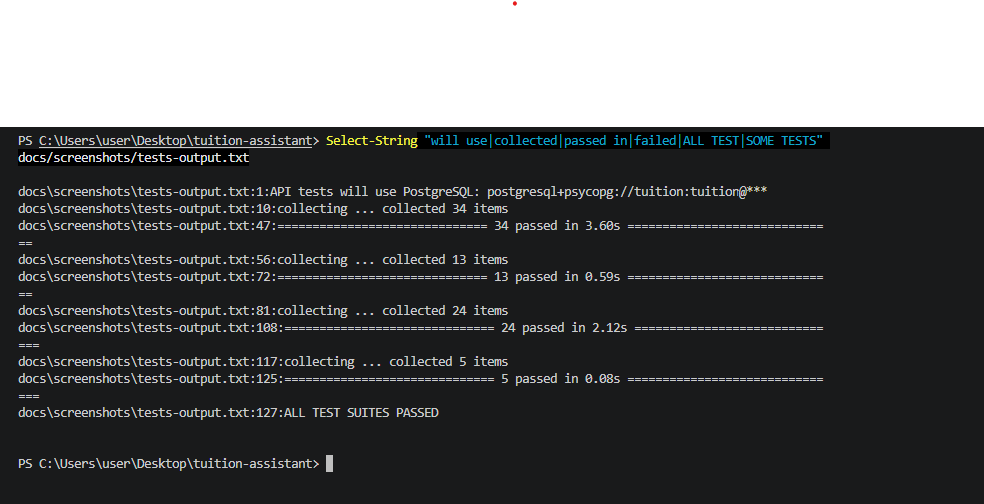
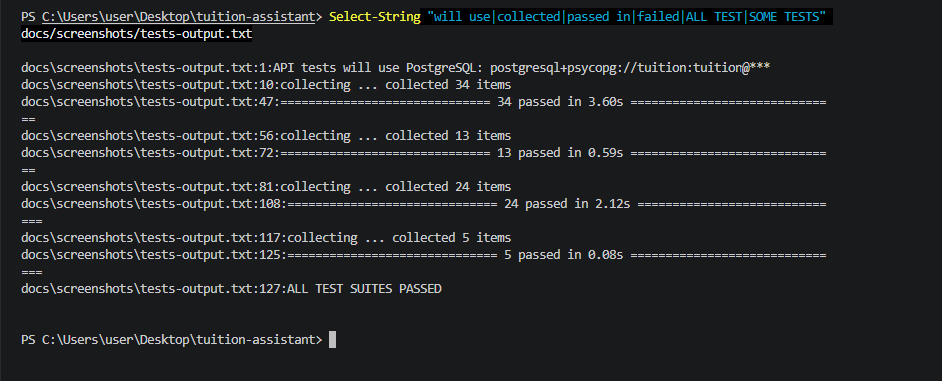
Azure deployment: gateway-only enforcement, cloud evidence and URLs

diff --git a/scripts/smoke_test.py b/scripts/smoke_test.py
@@ -1,6 +1,6 @@
 """End-to-end check THROUGH THE API GATEWAY (cross-platform, needs only `httpx`).
 
-    python scripts/smoke_test.py http://localhost:8000
+    python scripts/smoke_test.py http://localhost:8000 [DIRECT_API_URL]
 or, with nothing installed locally (uses the agent image):
     docker compose run --rm -v ./scripts:/scripts -v ./samples:/samples agent python /scripts/smoke_test.py http://gateway:8000
 
@@ -16,6 +16,7 @@ from pathlib import Path
 import httpx
 
 GW = (sys.argv[1] if len(sys.argv) > 1 else "http://localhost:8000").rstrip("/")
+DIRECT_API = sys.argv[2].rstrip("/") if len(sys.argv) > 2 else None  # optional: prove the gateway can't be bypassed
 STUDENT = "20230002"
 c = httpx.Client(base_url=GW, timeout=20)
 CSV = next((p for p in [Path(__file__).resolve().parents[1] / "samples" / "tuition_batch.csv",
@@ -38,6 +39,10 @@ def login(user, pw):
 tok = login(STUDENT, "Student123!")
 H = {"Authorization": f"Bearer {tok}"}
 print(f"Gateway: {GW}\nLogged in as {STUDENT} (POST /api/v1/auth/login, public route)")
+
+if DIRECT_API:
+    show("Direct call to the Tuition API, bypassing the gateway (expect 403 GATEWAY_REQUIRED)",
+         httpx.get(f"{DIRECT_API}/api/v1/mobile/tuition/{STUDENT}", timeout=20))
 
 show("Protected route WITHOUT token (expect 401 from gateway)", c.get(f"/api/v1/banking/tuition/{STUDENT}"))
 show("Protected route WITH token (expect 200)", c.get(f"/api/v1/banking/tuition/{STUDENT}", headers=H))

diff --git a/tuition_api/tests/test_api.py b/tuition_api/tests/test_api.py
@@ -219,3 +219,22 @@ class TestUnpaid:
 
     def test_requires_admin(self, client, student1):
         assert client.get("/api/v1/admin/tuition/unpaid?term=2026-FALL", headers=student1).status_code == 403
+
+
+# ============================================================ Gateway enforcement (X-Gateway-Secret)
+class TestGatewayOnly:
+    def test_request_without_gateway_secret_is_rejected(self, client, monkeypatch):
+        monkeypatch.setattr(settings, "gateway_secret", "s3cret-from-kong")
+        r = client.get("/api/v1/mobile/tuition/20230001")
+        assert r.status_code == 403 and r.json()["error"]["code"] == "GATEWAY_REQUIRED"
+        r = client.get("/api/v1/mobile/tuition/20230001", headers={"X-Gateway-Secret": "wrong"})
+        assert r.status_code == 403
+
+    def test_request_with_gateway_secret_passes(self, client, monkeypatch):
+        monkeypatch.setattr(settings, "gateway_secret", "s3cret-from-kong")
+        r = client.get("/api/v1/mobile/tuition/20230001", headers={"X-Gateway-Secret": "s3cret-from-kong"})
+        assert r.status_code == 200
+
+    def test_health_is_open_for_platform_probes(self, client, monkeypatch):
+        monkeypatch.setattr(settings, "gateway_secret", "s3cret-from-kong")
+        assert client.get("/health").status_code == 200

diff --git a/tuition_api/app/main.py b/tuition_api/app/main.py
@@ -1,7 +1,10 @@
 import time
 from contextlib import asynccontextmanager
 
-from fastapi import FastAPI
+import hmac
+
+from fastapi import FastAPI, Request
+from fastapi.responses import JSONResponse
 from sqlalchemy.exc import OperationalError
 
 from .config import settings
@@ -47,6 +50,19 @@ def create_app() -> FastAPI:
     app = FastAPI(title="Tuition API", version="1.0.0", description=DESCRIPTION, lifespan=lifespan,
                   docs_url="/docs", openapi_url="/openapi.json")
     install_error_handlers(app)
+
+    @app.middleware("http")
+    async def require_gateway(request: Request, call_next):
+        """Enforce "all REST traffic goes through the API Gateway" at the application level."""
+        secret = settings.gateway_secret
+        if secret and request.url.path != "/health":
+            sent = request.headers.get("x-gateway-secret", "")
+            if not hmac.compare_digest(sent.encode(), secret.encode()):
+                return JSONResponse(status_code=403, content={"error": {
+                    "code": "GATEWAY_REQUIRED",
+                    "message": "Direct access is not allowed; call the API through the API Gateway"}})
+        return await call_next(request)
+
     for r in routers:
         app.include_router(r)
 

diff --git a/gateway/tests/test_gateway_config.py b/gateway/tests/test_gateway_config.py
@@ -10,7 +10,7 @@ TEMPLATE = Path(__file__).resolve().parents[1] / "kong.yml.template"
 def render(**env):
     text = TEMPLATE.read_text()
     for k, v in {"API_UPSTREAM": "http://api:8000", "JWT_SECRET": "s3cret", "JWT_ISSUER": "tuition-auth",
-                 "MOBILE_DAILY_LIMIT": "3", **env}.items():
+                 "MOBILE_DAILY_LIMIT": "3", "GATEWAY_SHARED_SECRET": "gw-secret", **env}.items():
         text = text.replace("${" + k + "}", v)
     assert not re.findall(r"\$\{[A-Z_]+\}", text)
     return yaml.safe_load(text)
@@ -52,3 +52,9 @@ def test_mobile_rate_limit_is_keyed_by_student_number_not_ip():
 def test_jwt_consumer_matches_api_issuer():
     secret = render()["consumers"][0]["jwt_secrets"][0]
     assert secret == {"key": "tuition-auth", "secret": "s3cret", "algorithm": "HS256"}
+
+
+def test_gateway_adds_shared_secret_and_strips_client_value():
+    rt = {p["name"]: p["config"] for p in render()["plugins"]}["request-transformer"]
+    assert rt["remove"]["headers"] == ["X-Gateway-Secret"]
+    assert rt["add"]["headers"] == ["X-Gateway-Secret:gw-secret"]

diff --git a/tuition_api/app/config.py b/tuition_api/app/config.py
@@ -20,6 +20,10 @@ class Settings:
         self.timezone = os.getenv("APP_TIMEZONE", "Europe/Istanbul")
         self.init_db = _bool("INIT_DB", "true")
         self.seed_demo_data = _bool("SEED_DEMO_DATA", "true")
+        # Shared secret that ONLY the API gateway adds to proxied requests (header X-Gateway-Secret).
+        # When set, every request without it is rejected, so the API cannot be called around the gateway.
+        # Empty = check disabled (unit tests, local runs without the gateway).
+        self.gateway_secret = os.getenv("GATEWAY_SHARED_SECRET", "")
 
 
 settings = Settings()

diff --git a/README.md b/README.md
@@ -7,7 +7,7 @@ A conversational assistant for students asking about tuition deadlines, installm
 3. A **Tuition REST API** with a **PostgreSQL** database. All six operations are implemented, protected with JWT, and documented in Swagger.
 4. A **Kong API Gateway** that every REST request goes through. This includes the agent's own calls.
 
-> **Student:** _<your name / student number>_ · **Demo video:** _<link>_ · **Gateway URL:** _<https://api-gateway....azurecontainerapps.io>_ · **Chat UI:** _<https://tuition-agent....azurecontainerapps.io>_
+> **Student:** _<your name / student number>_ · **Demo video:** _<link>_ · **Gateway URL:** https://api-gateway.salmonmoss-766227b4.swedencentral.azurecontainerapps.io · **Chat UI:** https://tuition-agent.salmonmoss-766227b4.swedencentral.azurecontainerapps.io
 
 ### Requirements checklist (where to find each item)
 
@@ -19,12 +19,12 @@ A conversational assistant for students asking about tuition deadlines, installm
 | Real MCP SDK server, `search_tuition_policies(query)`, chunking + index | [§6](#6-mcp-server-and-indexing), `mcp_server/`, `docs/mcp-tool-schema.json` |
 | 3 distinct MCP retrieval queries | [§6](#6-mcp-server-and-indexing), `docs/screenshots/mcp-retrieval-tests.txt` |
 | REST APIs (6 operations), versioned, business rules | [§3](#3-rest-api), `tuition_api/` |
-| Swagger UI / OpenAPI | `<gateway>/docs`, [`docs/openapi.json`](docs/openapi.json), `docs/screenshots/swagger.png` |
+| Swagger UI / OpenAPI | [Azure gateway /docs](https://api-gateway.salmonmoss-766227b4.swedencentral.azurecontainerapps.io/docs), [`docs/openapi.json`](docs/openapi.json), `docs/screenshots/swagger.png`, `cloud-swagger.png` |
 | API Gateway: routes, protected route, error response, per-student rate limit | [§4](#4-api-gateway-kong), `gateway/kong.yml.template`, `docs/screenshots/gateway-smoke-test.txt` |
 | JWT auth, no access to other students' data | [§5](#5-authentication-and-authorization) |
 | Server database + ER model | PostgreSQL, [`docs/er-diagram.md`](docs/er-diagram.md), [`docs/er-diagram.png`](docs/er-diagram.png) |
 | Unit tests (success + failure per operation, no cloud/LLM) + evidence | [§8](#8-unit-tests), `docs/screenshots/tests.png` |
-| Cloud deployment (Azure) + URLs | [§9](#9-cloud-deployment-azure) |
+| Cloud deployment (Azure) + URLs | [§9](#9-cloud-deployment-azure), `docs/screenshots/cloud-*` |
 | LLM cost / low-cost testing | [§10](#10-llm-cost-and-low-cost-testing) |
 | Assumptions | [§11](#11-assumptions) |
 | Test data + steps to reproduce | [§2](#2-run-locally-docker), `samples/tuition_batch.csv` |
@@ -83,7 +83,7 @@ docker compose up --build
 | MCP server | http://localhost:8001/mcp |
 | Chat UI | http://localhost:8080 |
 
-The Tuition API container has **no published port**, so it can be reached **only through the gateway**.
+The Tuition API container has **no published port**, so it can be reached **only through the gateway**. In addition, the API rejects every request that does not carry the gateway's shared secret (see §4, "Gateway-only enforcement").
 
 ### Demo accounts and test data (seeded automatically)
 
@@ -157,7 +157,7 @@ Swagger UI: `<gateway>/docs`. The OpenAPI file is at [`docs/openapi.json`](docs/
 
 ## 4. API Gateway (Kong)
 
-- **Gateway URL:** `https://<api-gateway fqdn>` (Azure). Locally it is `http://localhost:8000`.
+- **Gateway URL (Azure):** https://api-gateway.salmonmoss-766227b4.swedencentral.azurecontainerapps.io (Swagger: https://api-gateway.salmonmoss-766227b4.swedencentral.azurecontainerapps.io/docs). Locally it is `http://localhost:8000`.
 - **Configuration:** [`gateway/kong.yml.template`](gateway/kong.yml.template). This is Kong 3.9 in DB-less mode, and the same file is used locally and in Azure.
 
 | Public route | Upstream | Gateway policy |
@@ -171,6 +171,12 @@ Swagger UI: `<gateway>/docs`. The OpenAPI file is at [`docs/openapi.json`](docs/
 **Per-student rate limit (not per IP).** A `pre-function` plugin copies `{studentNo}` from the path into an `X-Student-No` header, overwriting any value the client sent. The `rate-limiting` plugin then counts by that header.
 
 The API keeps a second, persistent counter in the `api_usage` table, keyed by student number and the Europe/Istanbul date. This way the rule holds even if the gateway restarts.
+
+**Gateway-only enforcement (the API cannot be called around the gateway).** Kong's `request-transformer` plugin removes any client-supplied `X-Gateway-Secret` header and adds the real shared secret to every request it proxies. The Tuition API rejects every request without the correct value (constant-time comparison) with:
+```
+403 {"error": {"code": "GATEWAY_REQUIRED", "message": "Direct access is not allowed; call the API through the API Gateway"}}
+```
+Only `/health` (platform health probe) is exempt. The secret is stored as an Azure Container Apps secret for both apps. This works the same locally and in the cloud and is covered by unit tests.
 
 **Example error response from the gateway** (protected route without a token):
 
@@ -307,7 +313,7 @@ Evidence of a successful run (API tests on PostgreSQL): [`docs/screenshots/tests
 
 | Component | Azure service |
 |---|---|
-| Tuition REST API | Azure Container Apps (**internal** ingress, not reachable from the internet) |
+| Tuition REST API | Azure Container Apps. Accepts only requests that carry the gateway secret; direct calls get **403 GATEWAY_REQUIRED** |
 | API Gateway | Kong on Azure Container Apps (external) |
 | MCP server | Azure Container Apps (external, `/mcp`) |
 | AI Agent and chat UI | Azure Container Apps (external) |
@@ -322,8 +328,23 @@ LOCATION=swedencentral bash deploy/azure/deploy.sh
 ```
 **Azure for Students note.** ACR Tasks (`az acr build`) are blocked on student/free-credit subscriptions (`TasksOperationsNotAllowed`). The script detects this, stops after creating the registry, database and environment, and prints the exact `docker login / tag / push` commands. Run them on your own computer (images built with Docker Desktop), then run the same deploy command again; it re-uses everything and creates the four container apps.
 
-Deployed URLs: _<fill in after deployment>_
-- Gateway: `https://...` · Swagger: `https://.../docs` · MCP: `https://.../mcp` · Chat: `https://...`
+Deployed URLs (Azure, region Sweden Central):
+
+| Component | URL |
+|---|---|
+| API Gateway (all REST, `/api/v1/...`) | https://api-gateway.salmonmoss-766227b4.swedencentral.azurecontainerapps.io |
+| Swagger UI (through the gateway) | https://api-gateway.salmonmoss-766227b4.swedencentral.azurecontainerapps.io/docs |
+| MCP server (Streamable HTTP) | https://mcp-server.salmonmoss-766227b4.swedencentral.azurecontainerapps.io/mcp |
+| Chat UI (AI agent) | https://tuition-agent.salmonmoss-766227b4.swedencentral.azurecontainerapps.io |
+| Tuition API (direct calls rejected: 403 `GATEWAY_REQUIRED`) | https://tuition-api.salmonmoss-766227b4.swedencentral.azurecontainerapps.io |
+
+Demo login for the chat: `20230005` / `Student123!` (see §2 for all demo accounts).
+
+**Cloud evidence**
+- Gateway, through Kong in Azure: [`docs/screenshots/cloud-gateway-smoke-test.txt`](docs/screenshots/cloud-gateway-smoke-test.txt). Shows the direct call to the API rejected with 403 `GATEWAY_REQUIRED`, 401 without a token, 200 with a token, 403 for another student, 200/200/200/**429** mobile limit, 201 then 409 duplicate transaction, and the admin operations.
+- MCP retrieval against the cloud MCP server: [`docs/screenshots/cloud-mcp-retrieval-tests.txt`](docs/screenshots/cloud-mcp-retrieval-tests.txt).
+- Swagger UI served through the Azure gateway: [`cloud-swagger.png`](docs/screenshots/cloud-swagger.png).
+- Chat on Azure (address bar visible): [`cloud-chat-combined.png`](docs/screenshots/cloud-chat-combined.png) (REST via the Azure gateway + MCP), [`cloud-payment-confirm.png`](docs/screenshots/cloud-payment-confirm.png), [`cloud-payment-success.png`](docs/screenshots/cloud-payment-success.png).
 
 Cost: everything fits in the Azure for Students credit (PostgreSQL B1ms plus 4 small container apps plus ACR Basic). Delete the resources afterwards with `az group delete -n rg-tuition-assistant`.
 
@@ -377,6 +398,7 @@ Cost: everything fits in the Azure for Students credit (PostgreSQL B1ms plus 4 s
 - The agent keeps chat sessions in memory, so each container app runs one replica (`max-replicas 1`).
 - Kong's rate-limit counter is `policy: local`, which matches one replica. The persistent counter in the API covers restarts.
 - The MCP server is publicly reachable without auth because it serves only public policy text.
+- **API network exposure:** the first deployment used *internal-only* ingress for the Tuition API, but in this Azure Container Apps environment the other apps could not reach internal apps (Kong got 404 for the internal FQDN and a DNS error for the short app name). The API therefore has normal ingress and enforces "gateway only" at the application level with the gateway's shared secret (direct calls: 403 `GATEWAY_REQUIRED`, evidence in `docs/screenshots/cloud-gateway-smoke-test.txt`). JWT and roles are still checked again by the API.
 
 ---
 
@@ -393,4 +415,4 @@ Cost: everything fits in the Azure for Students credit (PostgreSQL B1ms plus 4 s
 | Gateway: protected route, error response, 429, payment, admin | `docs/screenshots/gateway-smoke-test.txt` |
 | Swagger UI through the gateway | `docs/screenshots/swagger.png` |
 | Unit tests run (API tests on PostgreSQL) | `docs/screenshots/tests.png`, full output `docs/screenshots/tests-output.txt` |
-| Cloud deployment | `docs/screenshots/cloud-*.png` / `cloud-*.txt` (after deployment) |
+| Cloud deployment (Azure) | `docs/screenshots/cloud-gateway-smoke-test.txt`, `cloud-mcp-retrieval-tests.txt`, `cloud-chat-combined.png`, `cloud-payment-confirm.png`, `cloud-payment-success.png`, `cloud-swagger.png` |
